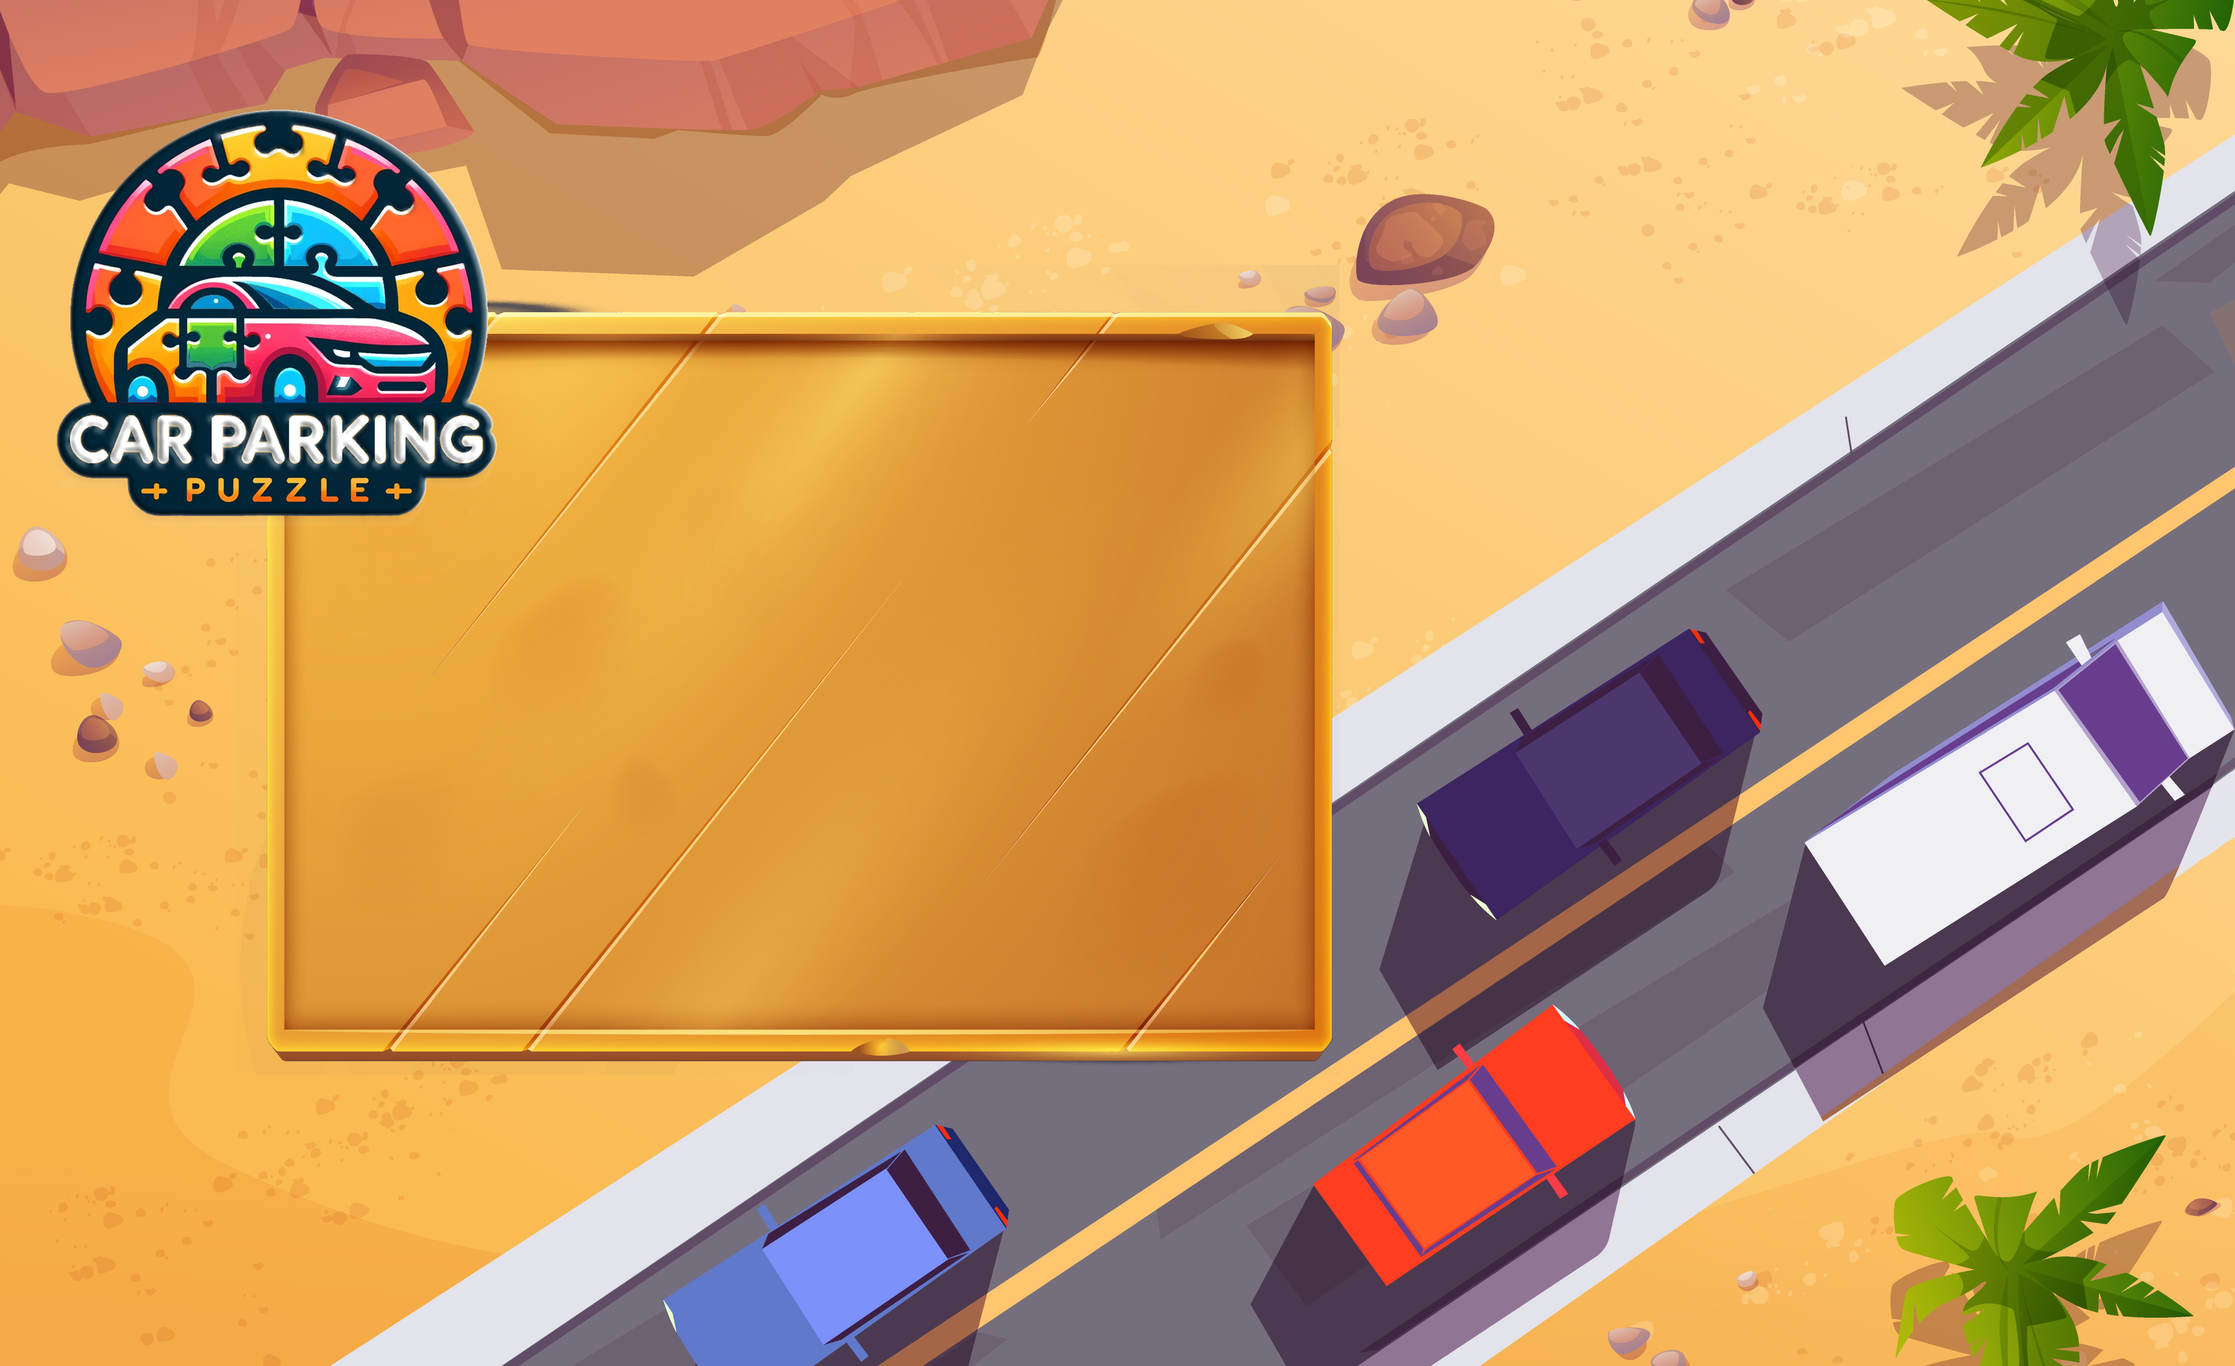
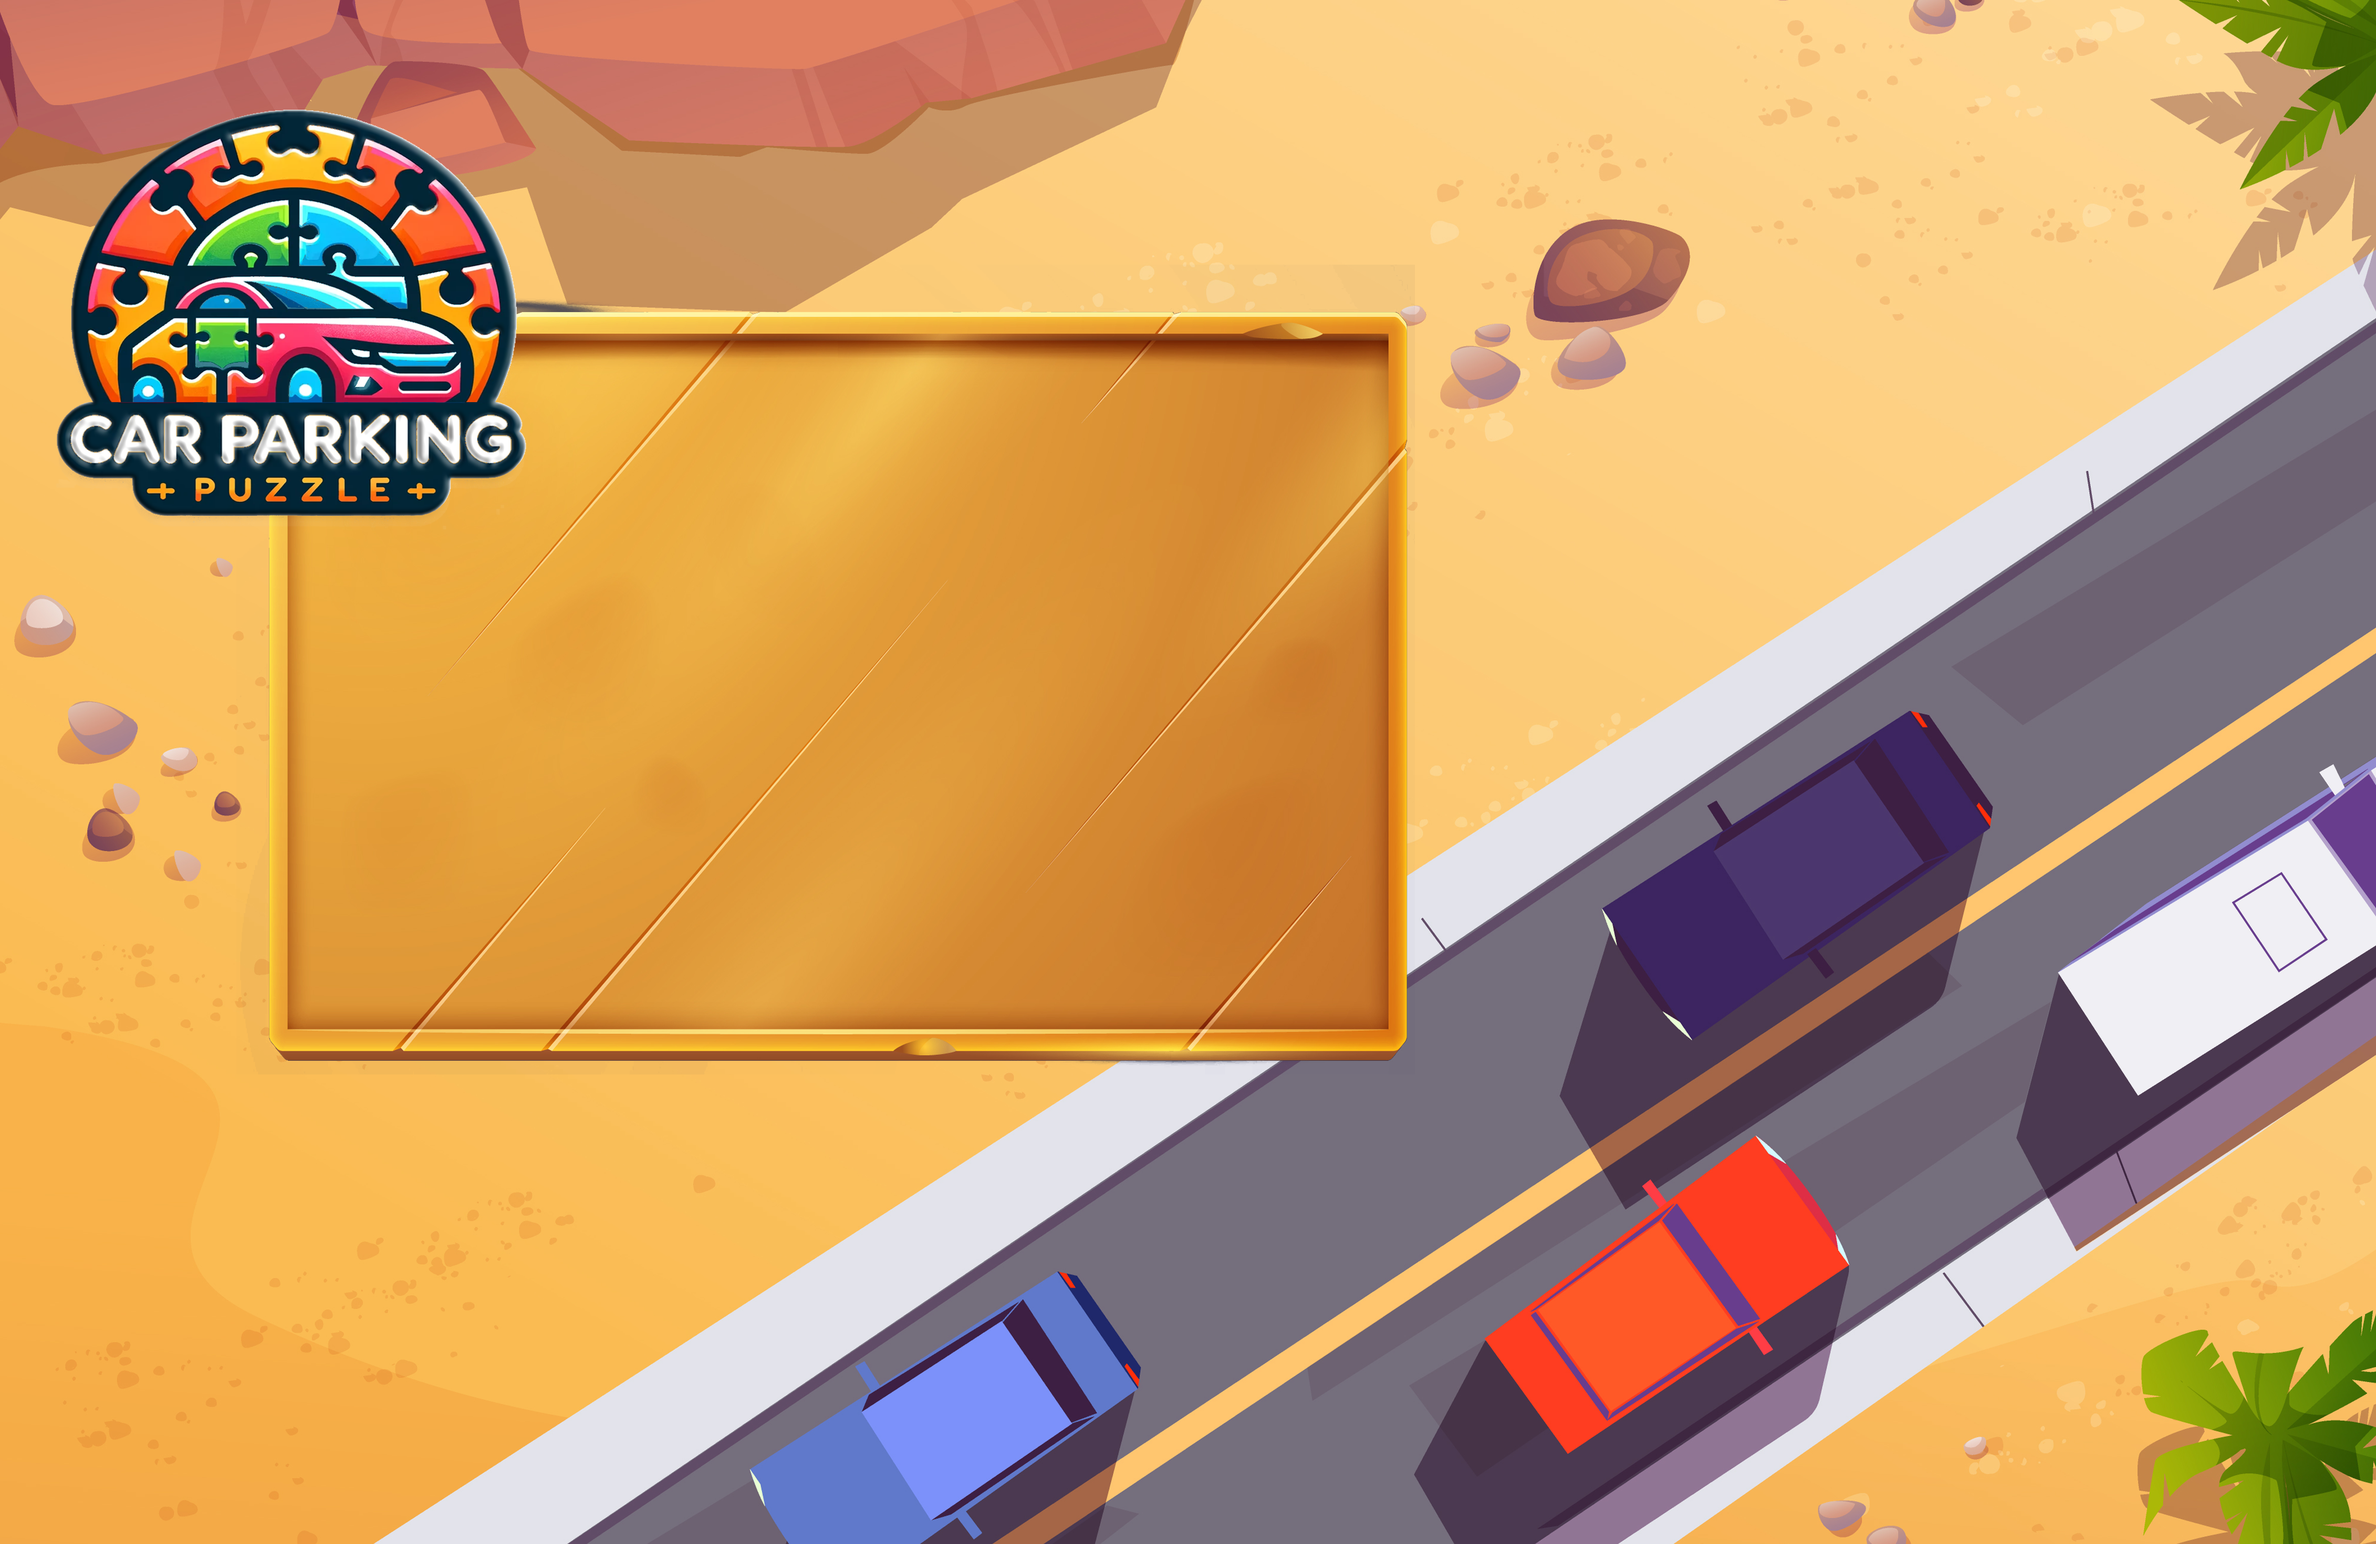
update ui game and checkbox map

diff --git a/main.py b/main.py
@@ -25,7 +25,8 @@ class MyGame:
         self.screen = pygame.display.set_mode((self.settings.screen_width, self.settings.screen_height))
         self.map=[]
         self.init_map()
-        self.combobox = ComboBox(71, 495, 230, 83, 'assets/combobox.png', ['BFS', 'UCS', 'IDS', 'A*', 'BEAM', 'Hill climbing', 'GREEDY'])
+        self.combobox = ComboBox(71, 660, 230, 83, 'assets/combobox.png', ['BFS', 'UCS', 'IDS', 'A*', 'BEAM', 'Hill climbing', 'GREEDY'])
+        self.checkbox_button = Button(self, 71, 820, 'checkbox', 0.21)
         self.playing_area = PlayingArea(self)
         self.btn_count = 0
         self.problems = []
@@ -36,7 +37,8 @@ class MyGame:
         self.initialize_buttons() 
         self.in_start_menu = True
         self.newgame = True
-        self.settings_visible = True
+        self.settings_visible = False
+        self.checkbox_checked = False
         pygame.display.set_caption("Car Parking Puzzle")
 
     # Problem
@@ -94,10 +96,13 @@ class MyGame:
         self.expense.update()
         self.visited_text.update2()
         self.time_text.update2()
+        self.sevenseven_text.update3()
         self.cars.update()
         self.playing_area.draw(self.map)
         for car in self.cars.sprites():
             car.draw()
+        self.checkbox_button.blitme()
+
         pygame.display.flip()
 
     # Car
@@ -122,10 +127,11 @@ class MyGame:
     #Game
     def init_game(self):
         self.step = 0
-        self.expense = Text(self, 71, 580, 'Step: 0')
+        self.expense = Text(self, 730, 820, 'Step: 0')
         self.visited = 0
-        self.visited_text = Text(self, 49, 670, 'Visited States: 0')
-        self.time_text = Text(self, 49, 410, 'Time: 0')
+        self.visited_text = Text(self, 430, 820, 'Visited States: 0')
+        self.time_text = Text(self, 980, 820, 'Time: 0')
+        self.sevenseven_text = Text(self, 165, 840, '7x7')
         for car in self.cars:
             car.kill()
         for btn in self.all_btn:
@@ -155,6 +161,24 @@ class MyGame:
                 mouse_x, mouse_y = pygame.mouse.get_pos()
                 self.check_car_click(mouse_x, mouse_y)
                 self.check_btn_click(mouse_x, mouse_y)
+                if self.checkbox_button.click(mouse_x, mouse_y):
+                    self.checkbox_checked = not self.checkbox_checked
+                    if self.checkbox_checked:
+                        self.settings.map_height = 9
+                        self.settings.map_width = 10
+                        self.sevenseven_text.text = '6x6'
+                        checkbox_image_path = 'assets/checkbox2.png'
+                        print(self.settings.map_height)
+                    else:
+                        self.settings.map_height = 8
+                        self.settings.map_width = 9
+                        checkbox_image_path = 'assets/checkbox.png'
+                        self.sevenseven_text.text = '7x7'
+                        print(self.settings.map_height)
+                    # self.playing_area = PlayingArea(self)
+                    self.create_map()
+                    checkbox_image = pygame.image.load(checkbox_image_path)
+                    self.checkbox_button.image = pygame.transform.scale(checkbox_image, self.checkbox_button.rect.size)
             if event.type == pygame.KEYDOWN:
                 self.move_car(event)
                 if event.key == pygame.K_b:
@@ -394,7 +418,6 @@ class MyGame:
                 self.check_end_game()
     
     def show_start_menu(self):
-        
         background_image = pygame.image.load('assets/background_menu.png')
         background_image = pygame.transform.scale(background_image, (self.settings.screen_width, self.settings.screen_height))
         self.screen.blit(background_image, [0, 0])
@@ -410,16 +433,15 @@ class MyGame:
                     if self.start_button.click(mouse_x, mouse_y):
                         self.in_start_menu = False 
                     elif self.settings_button.click(mouse_x, mouse_y):
-                        # self.show_settings(True)
-                        # self.in_start_menu = False
-                        self.show_settings(self.settings_visible)
+                        self.settings_visible = not self.settings_visible
+                        self.show_settings()
                     elif self.quit_button.click(mouse_x, mouse_y):
                         sys.exit()
             self.cars.update()
             pygame.display.flip() 
     
-    def show_settings(self, isVisible):
-        if isVisible:
+    def show_settings(self):
+        if self.settings_visible:
             problems = ['x02h']
             screen_width = self.settings.screen_width
             screen_height = self.settings.screen_height
@@ -432,7 +454,6 @@ class MyGame:
             hello_rect.center = (screen_width // 2, screen_height - 110)
             back_to_menu_button = Button(self, 100, 110, 'backtomenu', 0.21)
             acc_button = Button(self, 200, 110, 'buttonAcc', 0.20)
-
             for i in range(map_height):
                 map.append([])
                 for j in range(map_width):
@@ -444,7 +465,6 @@ class MyGame:
             map[3][2] = 'x'
             settings_background = pygame.image.load('assets/background_setting2.png')
             settings_background = pygame.transform.scale(settings_background, (screen_width, screen_height))
-            playing_area = PlayingArea(self)
             all_car = [Car(self, 'x', 'h', 0, 2)]
             for btn in self.all_btn:
                 btn.blitme()
@@ -480,6 +500,7 @@ class MyGame:
                         if back_to_menu_button.rect.collidepoint(event.pos):
                             self.show_start_menu()
                             # print(self.settings_visible)
+                       
                         if acc_button.rect.collidepoint(event.pos):
                             self.in_start_menu=False
                             isVisible=False
@@ -530,8 +551,8 @@ class MyGame:
                             dragging_car.rect.y = event.pos[1] - offset_y
                     if event.type == pygame.MOUSEBUTTONUP:
                         if dragging_car is not None:
-                            map_col = (event.pos[0] - playing_area.rect.topleft[0]) // playing_area.tile_size - 1
-                            map_row = (event.pos[1] - playing_area.rect.topleft[1]) // playing_area.tile_size - 1 
+                            map_col = (event.pos[0] - self.playing_area.rect.topleft[0]) // self.playing_area.tile_size - 1
+                            map_row = (event.pos[1] - self.playing_area.rect.topleft[1]) // self.playing_area.tile_size - 1 
                             self.map[map_row][map_col] = dragging_car.cate
                             print(f"Dropped car {dragging_car.cate} into map at row {map_row}, column {map_col} {dragging_car.lines}")
                             if ((map_col>=0 and map_col<map_width-1) and (map_row>=0 and map_row<map_height-1) and (map[map_row+1][map_col+1]==0)):
@@ -554,13 +575,16 @@ class MyGame:
                                             car_objects.pop(i)
                             dragging_car = None
                             dragging_image = None
-                
+                    if self.checkbox_checked:
+                        checkbox_image = pygame.image.load('assets/checkbox2.png')
+                    else:
+                        checkbox_image = pygame.image.load('assets/checkbox.png')
                 self.screen.fill((255, 255, 255))
                 self.screen.blit(settings_background, [0, 0])
-                self.screen.blit(playing_area.image, playing_area.rect.topleft)
-                playing_area.draw(map)
+                self.screen.blit(self.playing_area.image, self.playing_area.rect.topleft)
+                self.playing_area.draw(map)
                 for i in all_car:
-                    i.blitme(playing_area.image)
+                    i.blitme(self.playing_area.image)
                 for (car, _), i in zip(car_objects, range(len(car_objects))):
                     row = i // num_columns
                     col = i % num_columns
@@ -575,7 +599,10 @@ class MyGame:
                 if dragging_image is not None:
                     self.screen.blit(dragging_image, (pygame.mouse.get_pos()[0] - offset_x, pygame.mouse.get_pos()[1] - offset_y))
                 self.screen.blit(hello_text, hello_rect)
+                # button back to menu
                 back_to_menu_button.blitme()
+                
+                # tick button
                 acc_button.blitme()
                 for car in all_car:
                     car.update()

diff --git a/src/playing_area.py b/src/playing_area.py
@@ -8,8 +8,8 @@ class PlayingArea():
         self.screen = game.screen
         self.screen_rect = self.screen.get_rect()
         self.tile_size = self.settings.tile_size
-        self.map_width = self.settings.map_width
-        self.map_height = self.settings.map_height
+        self.map_width = 10
+        self.map_height = 9
         self.image = pygame.Surface((self.tile_size * self.map_width, self.tile_size * self.map_height))
         self.rect = self.image.get_rect()
         self.map = game.map
@@ -19,25 +19,35 @@ class PlayingArea():
         center_y = (top_left[1] + bottom_right[1]) // 2
         self.rect.center = (center_x, center_y)
         self.tile_rotations = [[random.choice([0, 90, 180]) for _ in range(self.map_width)] for _ in range(self.map_height)]
-
+    
     def draw(self, map):
         self.screen.blit(self.image, self.rect)
+        default_image = pygame.image.load('assets/block.png')
+        default_image = pygame.transform.scale(default_image, (self.tile_size, self.tile_size))
         for i in range(self.map_height):
             for j in range(self.map_width):
                 x = j * self.tile_size
                 y = i * self.tile_size
-                if (i == 3 and self.map[i][j] != -1):
-                    way_image = pygame.image.load('assets/way.png')
-                    way_image = pygame.transform.scale(way_image, (self.tile_size, self.tile_size))
-                    tile_rect = way_image.get_rect(center=(x + self.tile_size // 2, y + self.tile_size // 2))
-                    self.image.blit(way_image, tile_rect)
-                else:
-                    if map[i][j] == -1:
-                        tile_image = pygame.image.load('assets/block.png')
+                if i < len(map) and j < len(map[i]):
+                    if i == 3 and map[i][j] != -1:
+                        way_image = pygame.image.load('assets/way.png')
+                        way_image = pygame.transform.scale(way_image, (self.tile_size, self.tile_size))
+                        tile_rect = way_image.get_rect(center=(x + self.tile_size // 2, y + self.tile_size // 2))
+                        self.image.blit(way_image, tile_rect)
                     else:
-                        tile_image = pygame.image.load('assets/map.png')
-                    tile_image = pygame.transform.scale(tile_image, (self.tile_size, self.tile_size))
-                    angle = self.tile_rotations[i][j]
-                    tile_image = pygame.transform.rotate(tile_image, angle)
-                    tile_rect = tile_image.get_rect(center=(x + self.tile_size // 2, y + self.tile_size // 2))
-                    self.image.blit(tile_image, tile_rect)
+                        if map[i][j] == -1:
+                            tile_image = pygame.image.load('assets/block.png')
+                        else:
+                            tile_image = pygame.image.load('assets/map.png')
+                        tile_image = pygame.transform.scale(tile_image, (self.tile_size, self.tile_size))
+                        angle = self.tile_rotations[i][j]
+                        tile_image = pygame.transform.rotate(tile_image, angle)
+                        tile_rect = tile_image.get_rect(center=(x + self.tile_size // 2, y + self.tile_size // 2))
+                        self.image.blit(tile_image, tile_rect)
+                else:
+                    if i == 3 and j == 9:
+                        tile_rect = way_image.get_rect(center=(x + self.tile_size // 2, y + self.tile_size // 2))
+                        self.image.blit(way_image, tile_rect)
+                    else:
+                        default_rect = default_image.get_rect(center=(x + self.tile_size // 2, y + self.tile_size // 2))
+                        self.image.blit(default_image, default_rect)

diff --git a/src/text.py b/src/text.py
@@ -29,12 +29,9 @@ class Text:
         self.rect.y = self.y + (background_image.get_height() - self.image.get_height()) // 2
         self.screen.blit(self.image, self.rect)
     def update3(self):
-        background_image = pygame.image.load('assets/backtomenu.png')
-        background_image = pygame.transform.scale(background_image, (83, 83))
-        self.screen.blit(background_image, (self.x, self.y))
-        self.font = pygame.font.SysFont(None, 38)
-        self.image = self.font.render(self.text, True, (0, 0, 0)) 
+        self.font = pygame.font.SysFont(None, 50)
+        self.image = self.font.render(self.text, True, (0, 0, 0))
         self.rect = self.image.get_rect()
-        self.rect.x = self.x + (background_image.get_width() - self.image.get_width()) // 2
-        self.rect.y = self.y + (background_image.get_height() - self.image.get_height()) // 2
+        self.rect.x = self.x
+        self.rect.y = self.y
         self.screen.blit(self.image, self.rect)

diff --git a/src/settings.py b/src/settings.py
@@ -1,7 +1,7 @@
 class Settings:
     def __init__(self):
         #screen settings:
-        self.screen_height = 800
+        self.screen_height = 940
         self.screen_width = 1350
         self.fps = 60
         self.bg_color = (0, 0, 0)
@@ -19,10 +19,10 @@ class Settings:
         self.font_color = (7, 37, 65)
         self.btn_padding_top = 55
         #menu settings:
-        self.menu_btn_height = 40
-        self.menu_btn_width = 100
-        self.menu_x_btn = 360
-        self.menu_y_btn = 65
+        self.menu_btn_height = 70
+        self.menu_btn_width = 120
+        self.menu_x_btn = 340
+        self.menu_y_btn = 55
         self.menu_btn_color = (200, 200, 200)
         self.menu_btn_margin = 240
         #expense settings:
